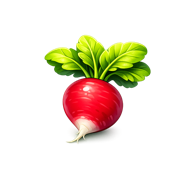
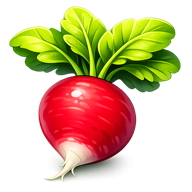
Update login page layout and enhance image assets
- Adjusted the layout of the login page by modifying the gap between elements for improved visual consistency.
- Increased the dimensions of the Rettich image for better visibility.
- Updated multiple image assets to enhance application branding and user experience.

diff --git a/app/login/page.tsx b/app/login/page.tsx
@@ -43,12 +43,12 @@ export default function LoginPage() {
   return (
     <div className="min-h-dvh flex flex-col items-center justify-center bg-[#faf7f0] px-6">
       <div className="w-full max-w-sm flex flex-col items-center gap-8">
-        <div className="flex flex-col items-center gap-3">
+        <div className="flex flex-col items-center gap-1.5">
           <Image
             src="/image_rettich.png"
             alt="Rettich"
-            width={80}
-            height={80}
+            width={160}
+            height={160}
             priority
             className="object-contain"
           />
